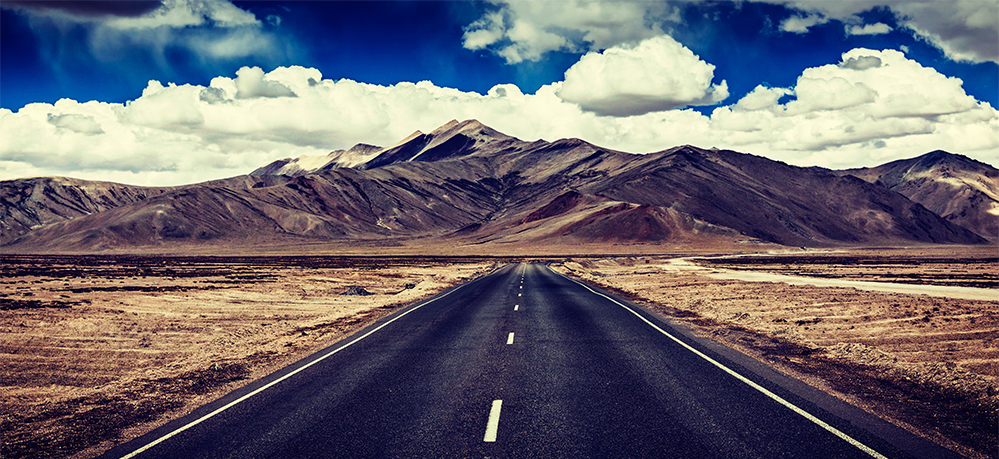
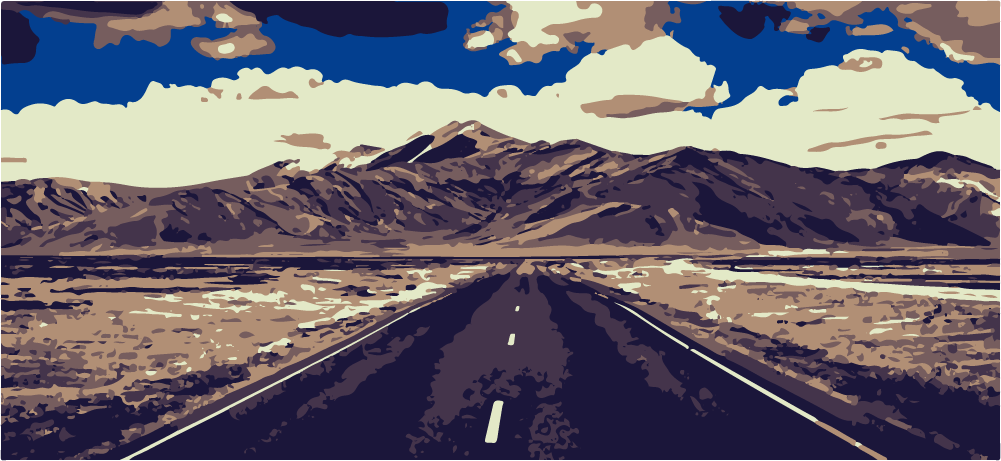
Change header pic, add header shadow

diff --git a/css/main.css b/css/main.css
@@ -29,6 +29,7 @@ body {
 	font-family: Yellowtail;
 	font-size: 5em;
 	position: relative;
+	text-shadow: 2px 2px #2f4f4f;
 	top: -175px;
 	left: 34.25%;
 	
@@ -68,14 +69,15 @@ nav ul li {
 	overflow: hidden;
 }
 .sidebar {
-	width: 20%;
-	max-width: 20%;
+	width: 23%;
+	
 	display: block;
+	border: 1px solid black;
 }
 #sidebar-left {
 	padding: 0;
 	margin: 0;
-	width: 20%;
+	
 	float: left;
 }
 #sidebar-right {
@@ -84,8 +86,8 @@ nav ul li {
 
 #main-content {
 	float: left;
-	width: 45%;
-	padding: 0;
+	width: 50%;
+	padding: 1%;
 	margin-right: 0;
 	display: block;
 }
@@ -93,7 +95,8 @@ nav ul li {
 #main-content p {
 	
 	text-align: justify;
-	margin: 0;
+	margin: 0 auto;
+	width: 90%;
 }
 
 h2{

diff --git a/index.html b/index.html
@@ -55,6 +55,7 @@
 
 </div>
 
+<br>
 	<footer>
 		<p>Copyright 2016</p>
 	</footer>
